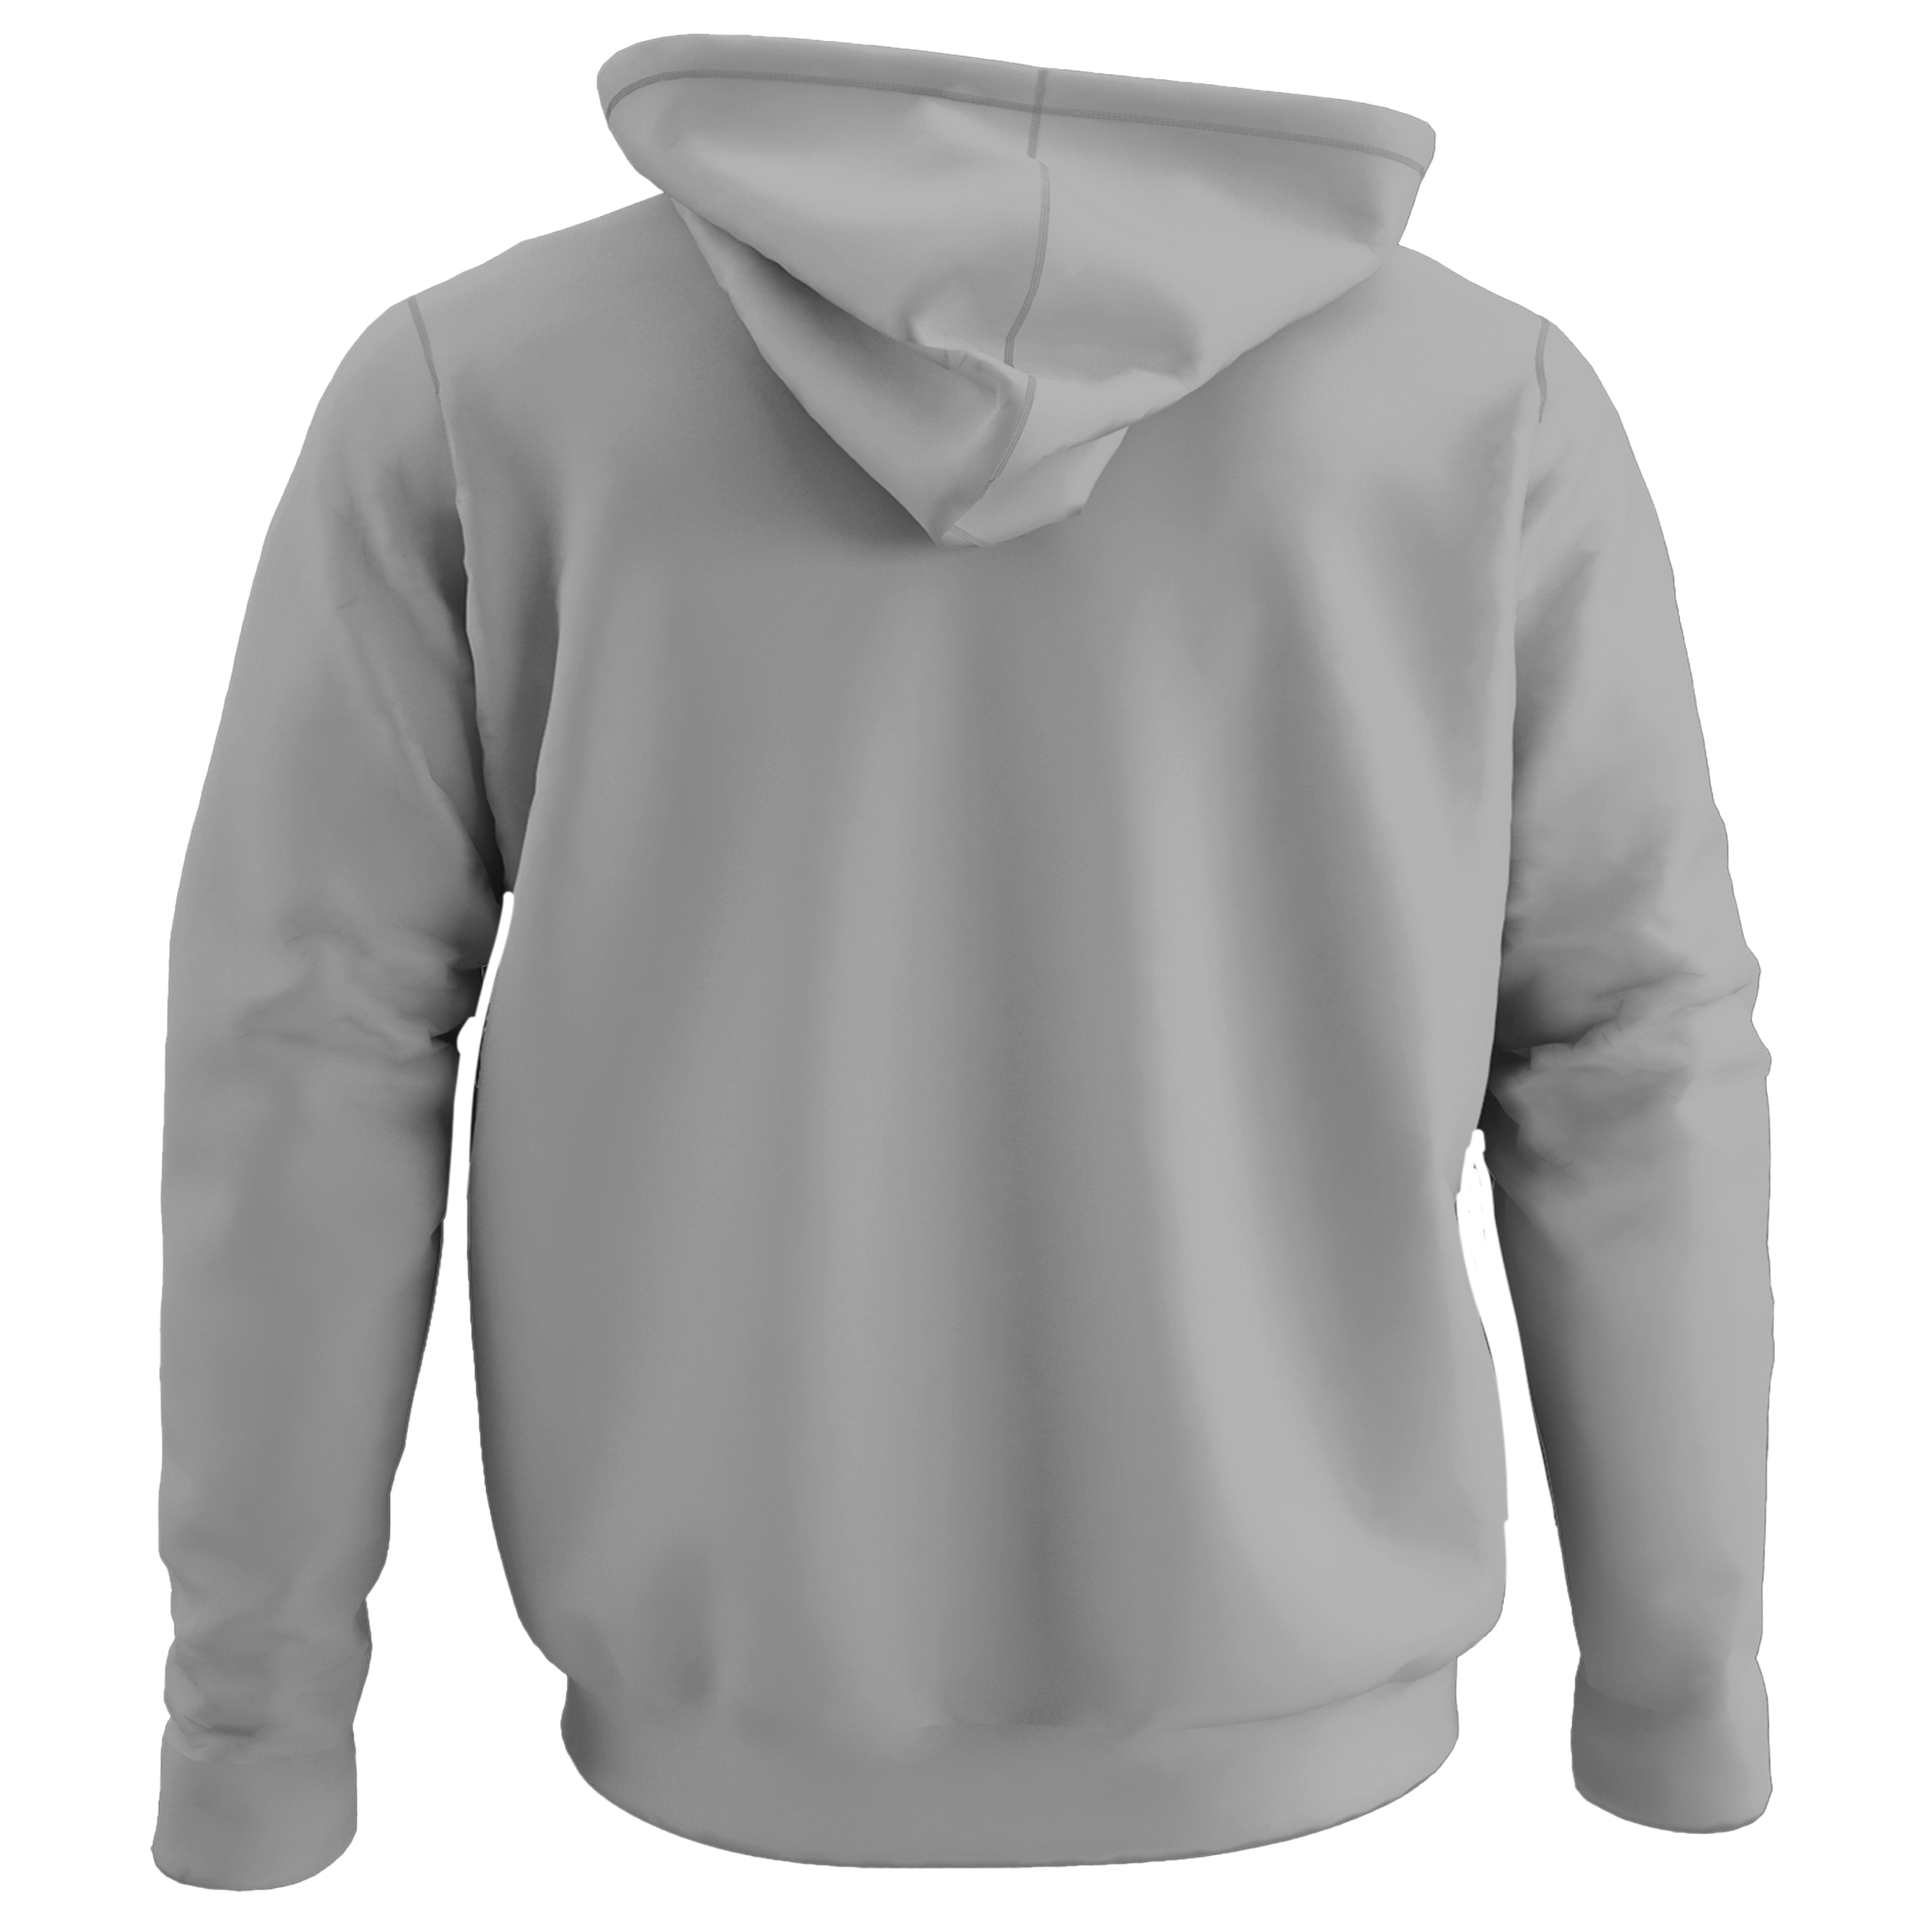
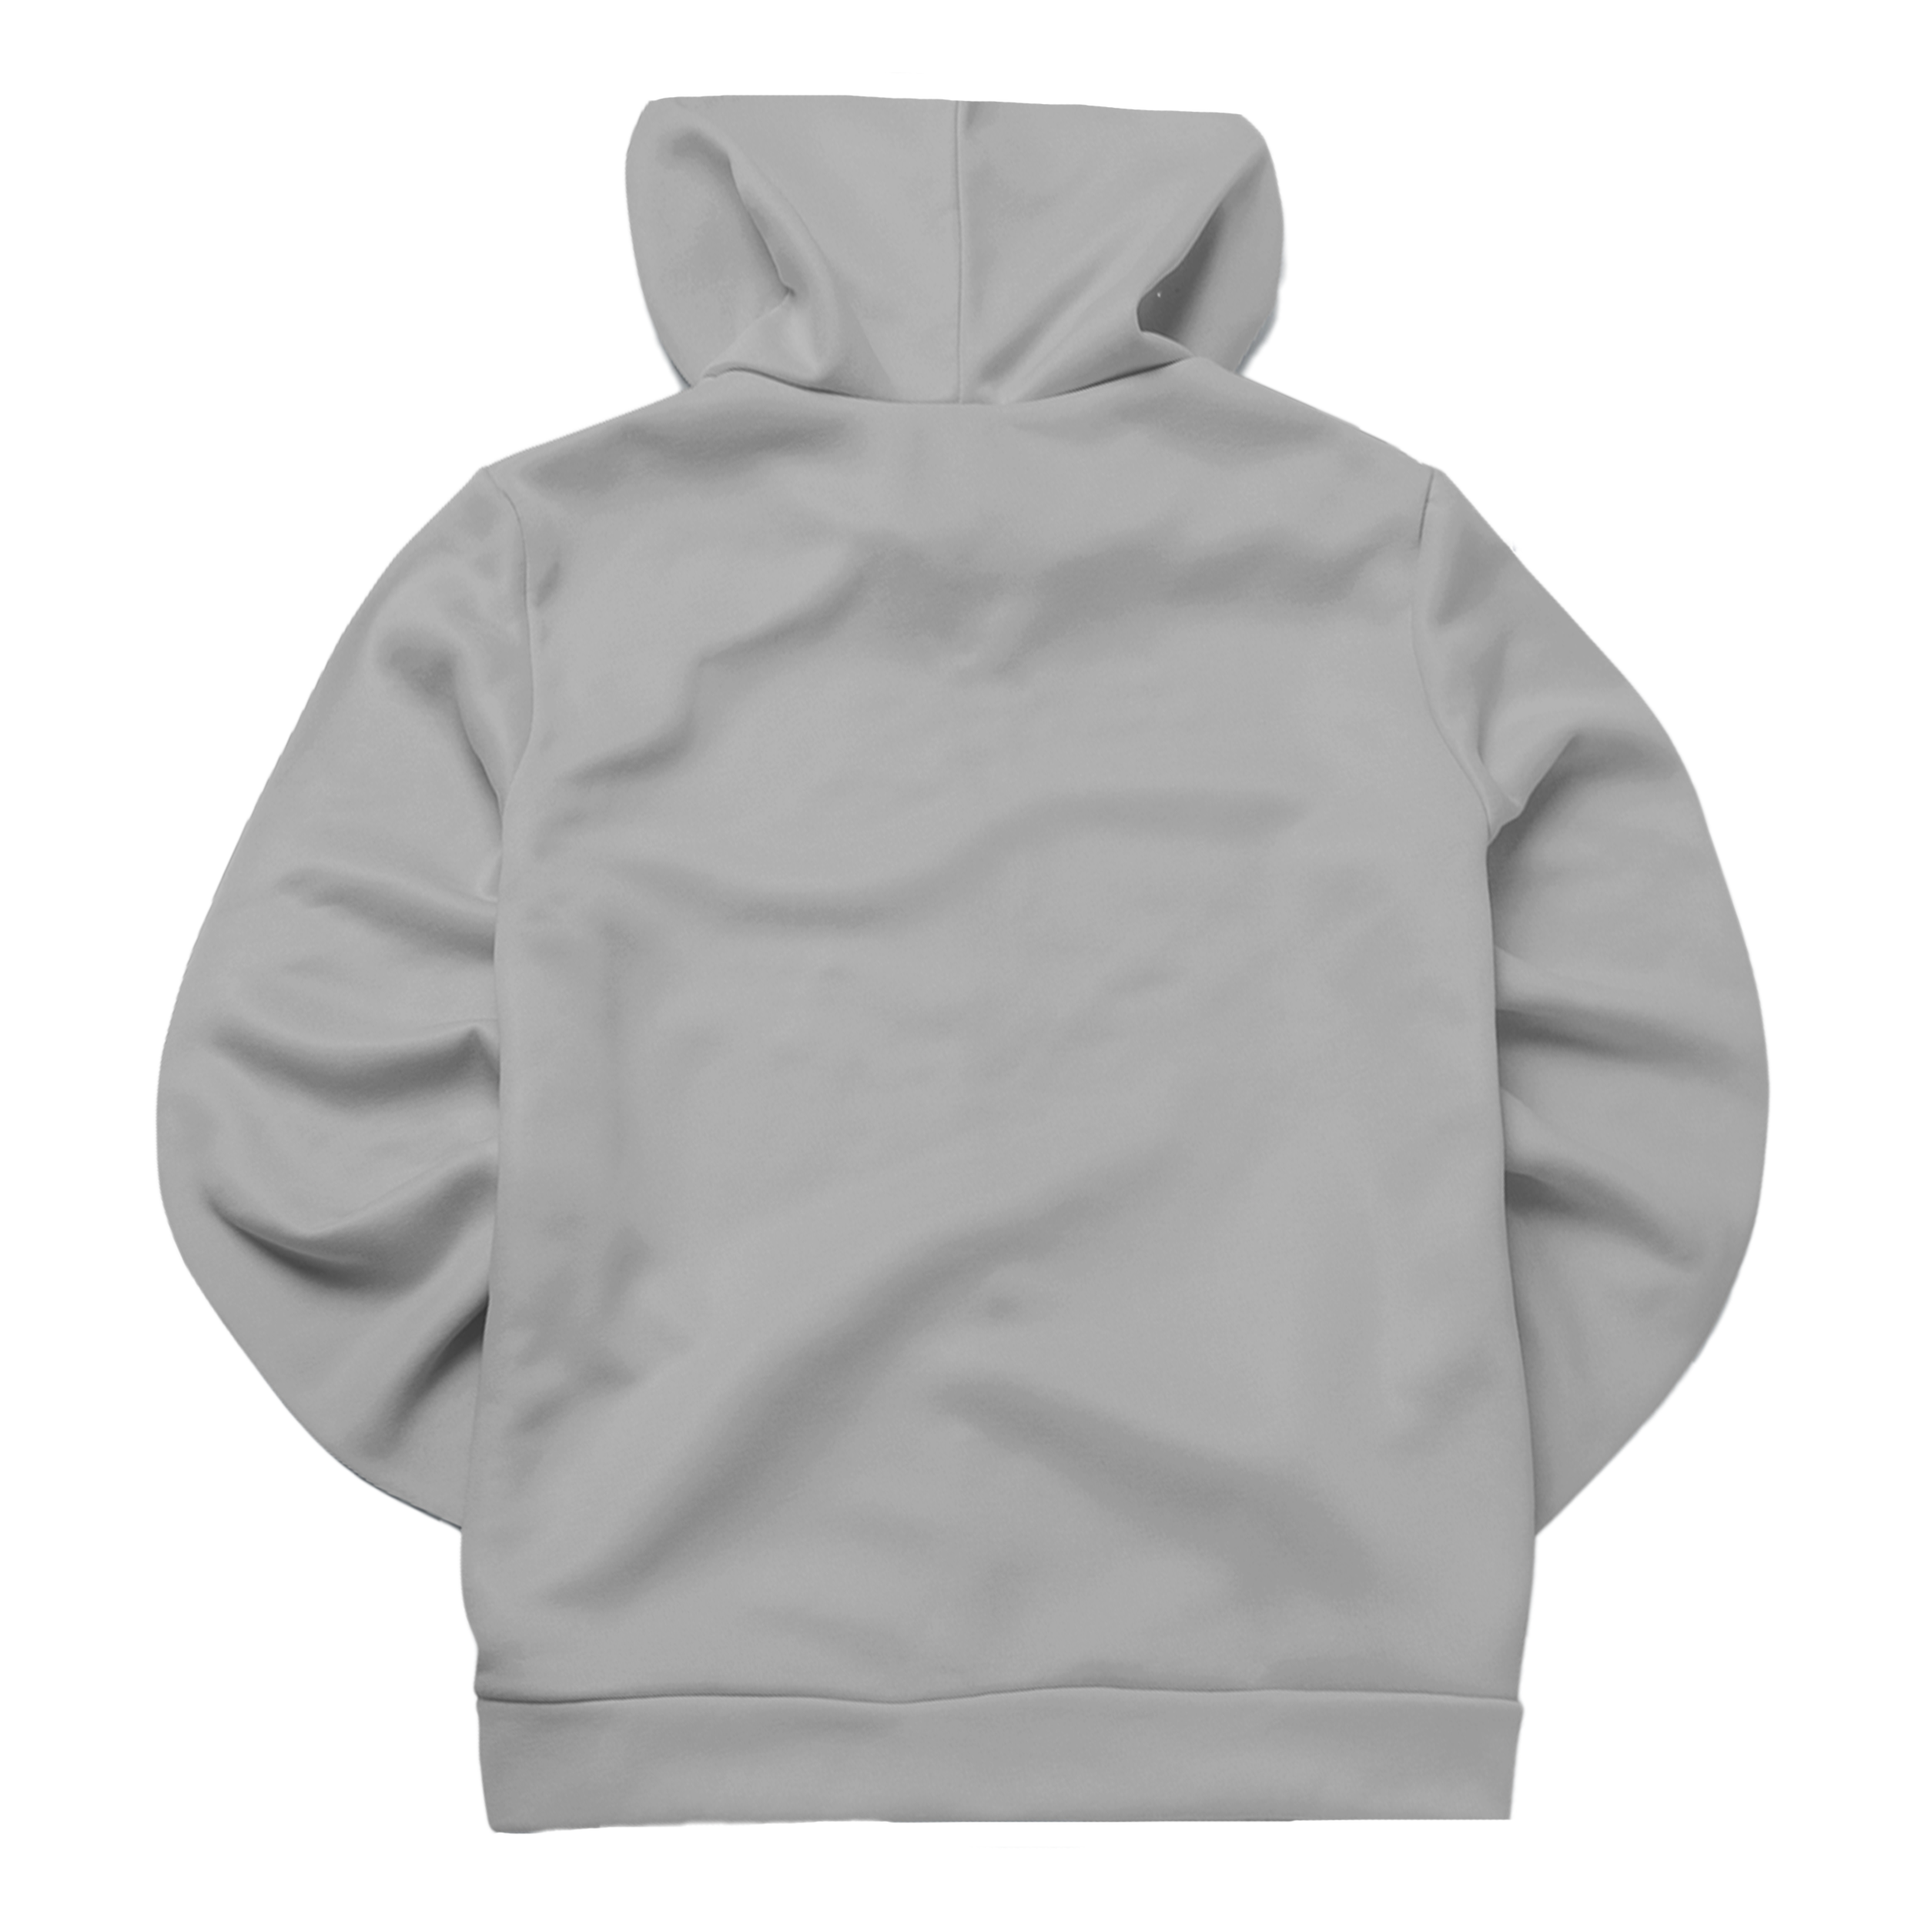
Update hoodie designs

diff --git a/react/src/Products.jsx b/react/src/Products.jsx
@@ -30,14 +30,14 @@ import WhiteHoodie from "./assets/WhiteHoodie.png";
 import BackBlackTshirt from "./assets/TshirtBackView/TSBbk.png";
 import BackBlackLongSleeve from "./assets/LongSleeveBackView/LSBbk.png";
 import BackBlackCrewneck from "./assets/CrewBackView/CSBbk.png";
-import BackBlackHoodie from "./assets/HoodieBackView/HBbk.png";
+import BackBlackHoodie from "./assets/HoodieBackView/HBb.png";
 import BackGrayTshirt from "./assets/TshirtBackView/TSBg.png";
 import BackGrayLongSleeve from "./assets/LongSleeveBackView/LSBg.png";
 import BackGrayCrewneck from "./assets/CrewBackView/CSBg.png";
 import BackGrayHoodie from "./assets/HoodieBackView/HBg.png";
 import BackRedTshirt from "./assets/TshirtBackView/TSBr.png";
 import BackRedLongSleeve from "./assets/LongSleeveBackView/LSBR.png";
-import BackRedHoodie from "./assets/HoodieBackView/HSr.png";
+import BackRedHoodie from "./assets/HoodieBackView/HBr.png";
 import BackYellowTshirt from "./assets/TshirtBackView/TSBy.png";
 import BackPinkTshirt from "./assets/TshirtBackView/TSBpk.png";
 import BackGreenTshirt from "./assets/TshirtBackView/TSBgn.png";
